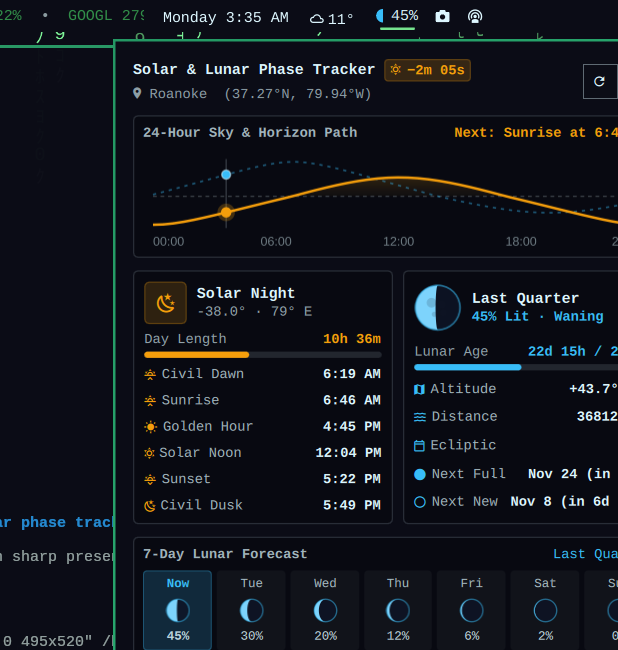
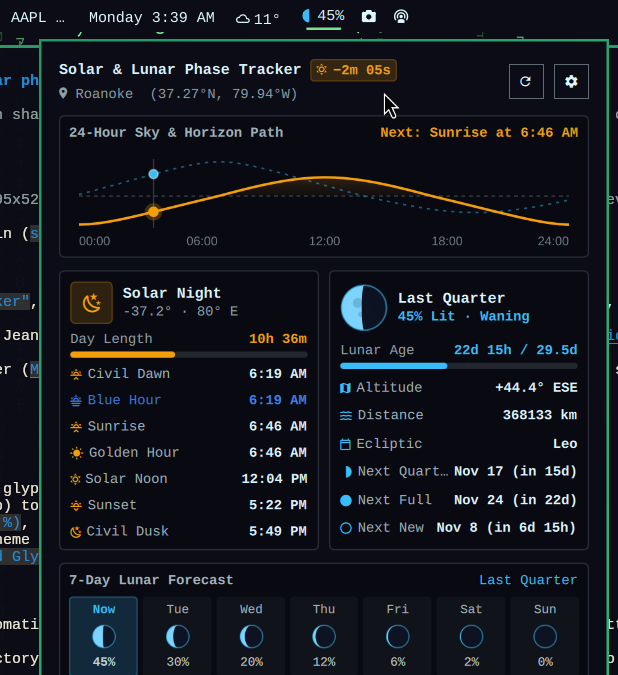
Add Blue Hour tracking and Next Quarter lunar milestone

diff --git a/BarWidget.qml b/BarWidget.qml
@@ -80,7 +80,21 @@ BarWidget {
   readonly property real popupLuminance: 0.2126 * root.effectivePopupBg.r + 0.7152 * root.effectivePopupBg.g + 0.0722 * root.effectivePopupBg.b
   readonly property bool isLightPopup: root.popupLuminance > 0.48
 
+  function resolveBlueHourColor(forPopup) {
+    var onLight = forPopup ? root.isLightPopup : root.isLightBar
+    if (root.useThemeColors) {
+      return Color.accent
+    }
+    var hex = root.useBoldColors
+      ? (onLight ? "#1D4ED8" : "#3B82F6")
+      : (onLight ? "#2563EB" : "#60A5FA")
+    return Qt.color(hex)
+  }
+
   function resolveSolarColor(forPopup, isDaytime) {
+    if (root.solarData && root.solarData.isBlueHour) {
+      return root.resolveBlueHourColor(forPopup)
+    }
     var onLight = forPopup ? root.isLightPopup : root.isLightBar
     if (root.useThemeColors) {
       if (!forPopup && Color.bar && Color.bar.active !== undefined) return Color.bar.active
@@ -653,6 +667,7 @@ BarWidget {
     contentHeight: fittedContentHeight(mainColumn.implicitHeight)
 
     readonly property color popupSolarColor: root.resolveSolarColor(true, root.solarData.isDay)
+    readonly property color popupBlueHourColor: root.resolveBlueHourColor(true)
     readonly property color popupLunarColor: root.resolveLunarColor(true)
     readonly property color popupLunarLitColor: root.resolveLunarLitColor(true)
     readonly property color cardSurfaceColor: root.isLightPopup
@@ -1080,15 +1095,16 @@ BarWidget {
                 }
               }
 
-              // Solar Timetable rows
+              // Solar Timetable rows (including Blue Hour & Golden Hour)
               Repeater {
                 model: [
-                  { icon: "", label: strings.t("solar.dawn"),       value: Model.formatTime(root.solarData.dawn, root.timeFormatMode, root.formatLocale) },
-                  { icon: "", label: strings.t("solar.sunrise"),    value: Model.formatTime(root.solarData.sunrise, root.timeFormatMode, root.formatLocale) },
-                  { icon: "", label: strings.t("solar.goldenHour"), value: Model.formatTime(root.solarData.goldenHourStart, root.timeFormatMode, root.formatLocale) },
-                  { icon: "", label: strings.t("solar.solarNoon"),  value: Model.formatTime(root.solarData.solarNoon, root.timeFormatMode, root.formatLocale) },
-                  { icon: "", label: strings.t("solar.sunset"),     value: Model.formatTime(root.solarData.sunset, root.timeFormatMode, root.formatLocale) },
-                  { icon: "", label: strings.t("solar.dusk"),       value: Model.formatTime(root.solarData.dusk, root.timeFormatMode, root.formatLocale) }
+                  { icon: "", label: strings.t("solar.dawn"),       value: Model.formatTime(root.solarData.dawn, root.timeFormatMode, root.formatLocale),       isBlue: false },
+                  { icon: "", label: strings.t("solar.blueHour"),   value: Model.formatTime(root.solarData.blueHour, root.timeFormatMode, root.formatLocale),   isBlue: true  },
+                  { icon: "", label: strings.t("solar.sunrise"),    value: Model.formatTime(root.solarData.sunrise, root.timeFormatMode, root.formatLocale),    isBlue: false },
+                  { icon: "", label: strings.t("solar.goldenHour"), value: Model.formatTime(root.solarData.goldenHour, root.timeFormatMode, root.formatLocale), isBlue: false },
+                  { icon: "", label: strings.t("solar.solarNoon"),  value: Model.formatTime(root.solarData.solarNoon, root.timeFormatMode, root.formatLocale),  isBlue: false },
+                  { icon: "", label: strings.t("solar.sunset"),     value: Model.formatTime(root.solarData.sunset, root.timeFormatMode, root.formatLocale),     isBlue: false },
+                  { icon: "", label: strings.t("solar.dusk"),       value: Model.formatTime(root.solarData.dusk, root.timeFormatMode, root.formatLocale),       isBlue: false }
                 ]
 
                 RowLayout {
@@ -1099,7 +1115,7 @@ BarWidget {
                   Text {
                     textFormat: Text.PlainText
                     text: modelData.icon
-                    color: trackerPopup.popupSolarColor
+                    color: modelData.isBlue ? trackerPopup.popupBlueHourColor : trackerPopup.popupSolarColor
                     font.family: Style.font.family
                     font.pixelSize: Style.font.small || 11
                   }
@@ -1107,8 +1123,8 @@ BarWidget {
                   Text {
                     textFormat: Text.PlainText
                     text: modelData.label
-                    color: Color.foreground
-                    opacity: 0.72
+                    color: modelData.isBlue ? trackerPopup.popupBlueHourColor : Color.foreground
+                    opacity: modelData.isBlue ? 0.92 : 0.72
                     font.family: Style.font.family
                     font.pixelSize: Style.font.small || 11
                     Layout.fillWidth: true
@@ -1118,7 +1134,7 @@ BarWidget {
                   Text {
                     textFormat: Text.PlainText
                     text: modelData.value
-                    color: Color.foreground
+                    color: modelData.isBlue ? trackerPopup.popupBlueHourColor : Color.foreground
                     font.family: Style.font.family
                     font.pixelSize: Style.font.small || 11
                     font.bold: true
@@ -1246,6 +1262,11 @@ BarWidget {
                     icon: "",
                     label: strings.t("lunar.zodiac"),
                     value: root.lunarData.zodiacName
+                  },
+                  {
+                    icon: root.lunarData.nextQuarterIsFirst ? "" : "",
+                    label: strings.t("lunar.nextQuarter"),
+                    value: root.lunarData.nextQuarterDate.toLocaleDateString(root.formatLocale, "MMM d") + " (" + Model.formatCountdownDays(root.lunarData.daysToQuarter) + ")"
                   },
                   {
                     icon: "",

diff --git a/Model.js b/Model.js
@@ -221,7 +221,8 @@ function getSunTimesForDay(date, lat, lon) {
   }
 
   var sunStd = pairForAngle(-0.833)       // Official Sunrise / Sunset
-  var civil = pairForAngle(-6.0)          // Civil Dawn / Dusk
+  var blue = pairForAngle(-4.0)           // Blue Hour inner boundary (-4° to -6°)
+  var civil = pairForAngle(-6.0)          // Civil Dawn / Dusk (-6°, outer Blue Hour boundary)
   var nautical = pairForAngle(-12.0)      // Nautical Dawn / Dusk
   var astro = pairForAngle(-18.0)         // Astronomical Dawn / Dusk
   var golden = pairForAngle(6.0)          // Golden Hour end (morning) / start (evening)
@@ -244,6 +245,10 @@ function getSunTimesForDay(date, lat, lon) {
     sunset: sunStd.set,
     dawn: civil.rise,
     dusk: civil.set,
+    blueHourMorningStart: civil.rise,
+    blueHourMorningEnd: blue.rise,
+    blueHourEveningStart: blue.set,
+    blueHourEveningEnd: civil.set,
     nauticalDawn: nautical.rise,
     nauticalDusk: nautical.set,
     astroDawn: astro.rise,
@@ -267,6 +272,7 @@ function computeSolarSummary(now, lat, lon) {
   var dayDiffSec = today.dayLengthSeconds - yesterday.dayLengthSeconds
 
   var isDay = pos.altitude > -0.833
+  var isBlueHour = pos.altitude <= -3.5 && pos.altitude >= -6.5
   var phaseKey = "night"
   var phaseName = "Night"
   var phaseIcon = ""
@@ -277,8 +283,18 @@ function computeSolarSummary(now, lat, lon) {
   var sn = today.solarNoon ? today.solarNoon.getTime() : null
   var ghMorningEnd = today.goldenHourEnd ? today.goldenHourEnd.getTime() : null
   var ghEveningStart = today.goldenHourStart ? today.goldenHourStart.getTime() : null
+  var bhMorningStart = today.blueHourMorningStart ? today.blueHourMorningStart.getTime() : null
+  var bhMorningEnd = today.blueHourMorningEnd ? today.blueHourMorningEnd.getTime() : null
+  var bhEveningStart = today.blueHourEveningStart ? today.blueHourEveningStart.getTime() : null
+  var bhEveningEnd = today.blueHourEveningEnd ? today.blueHourEveningEnd.getTime() : null
 
-  if (sr !== null && Math.abs(t - sr) <= 18 * 60000) {
+  if ((bhMorningStart !== null && bhMorningEnd !== null && t >= bhMorningStart && t <= bhMorningEnd) ||
+      (bhEveningStart !== null && bhEveningEnd !== null && t >= bhEveningStart && t <= bhEveningEnd) ||
+      isBlueHour) {
+    phaseKey = "blue_hour"
+    phaseName = t < (sn || t) ? "Morning Blue Hour" : "Evening Blue Hour"
+    phaseIcon = ""
+  } else if (sr !== null && Math.abs(t - sr) <= 18 * 60000) {
     phaseKey = "sunrise"
     phaseName = "Sunrise"
     phaseIcon = ""
@@ -361,8 +377,27 @@ function computeSolarSummary(now, lat, lon) {
     }
   }
 
+  // Active/upcoming Blue Hour & Golden Hour timestamps for the daily timetable
+  var activeBlueHour = today.blueHourEveningStart
+  var activeBlueHourIsMorning = false
+  if (bhMorningEnd !== null && t < bhMorningEnd) {
+    activeBlueHour = today.blueHourMorningStart
+    activeBlueHourIsMorning = true
+  } else if (bhEveningEnd !== null && t > bhEveningEnd && tomorrow.blueHourMorningStart) {
+    activeBlueHour = tomorrow.blueHourMorningStart
+    activeBlueHourIsMorning = true
+  }
+
+  var activeGoldenHour = today.goldenHourStart
+  var activeGoldenHourIsMorning = false
+  if (ghMorningEnd !== null && t < ghMorningEnd) {
+    activeGoldenHour = today.sunrise
+    activeGoldenHourIsMorning = true
+  }
+
   return {
     isDay: isDay,
+    isBlueHour: phaseKey === "blue_hour",
     phaseKey: phaseKey,
     phaseName: phaseName,
     phaseIcon: phaseIcon,
@@ -375,6 +410,14 @@ function computeSolarSummary(now, lat, lon) {
     solarNoon: today.solarNoon,
     dawn: today.dawn,
     dusk: today.dusk,
+    blueHour: activeBlueHour,
+    blueHourIsMorning: activeBlueHourIsMorning,
+    blueHourMorningStart: today.blueHourMorningStart,
+    blueHourMorningEnd: today.blueHourMorningEnd,
+    blueHourEveningStart: today.blueHourEveningStart,
+    blueHourEveningEnd: today.blueHourEveningEnd,
+    goldenHour: activeGoldenHour,
+    goldenHourIsMorning: activeGoldenHourIsMorning,
     goldenHourEnd: today.goldenHourEnd,
     goldenHourStart: today.goldenHourStart,
     dayLengthSeconds: today.dayLengthSeconds,
@@ -534,9 +577,14 @@ function computeLunarSummary(now, lat, lon) {
 
   var nextFull = findNextLunarPhaseDate(now, 0.5)
   var nextNew = findNextLunarPhaseDate(now, 0.0)
+  var nextFirstQ = findNextLunarPhaseDate(now, 0.25)
+  var nextLastQ = findNextLunarPhaseDate(now, 0.75)
+  var useFirstQ = nextFirstQ.getTime() <= nextLastQ.getTime()
+  var nextQuarter = useFirstQ ? nextFirstQ : nextLastQ
 
   var daysToFull = Math.max(0, (nextFull.getTime() - now.getTime()) / DAY_MS)
   var daysToNew = Math.max(0, (nextNew.getTime() - now.getTime()) / DAY_MS)
+  var daysToQuarter = Math.max(0, (nextQuarter.getTime() - now.getTime()) / DAY_MS)
 
   // 7-day forecast strip starting from today (index 0 uses exact current time)
   var forecast = []
@@ -575,8 +623,11 @@ function computeLunarSummary(now, lat, lon) {
     zodiacSymbol: zodiac.symbol,
     nextFullDate: nextFull,
     nextNewDate: nextNew,
+    nextQuarterDate: nextQuarter,
+    nextQuarterIsFirst: useFirstQ,
     daysToFull: daysToFull,
     daysToNew: daysToNew,
+    daysToQuarter: daysToQuarter,
     forecast: forecast
   }
 }
